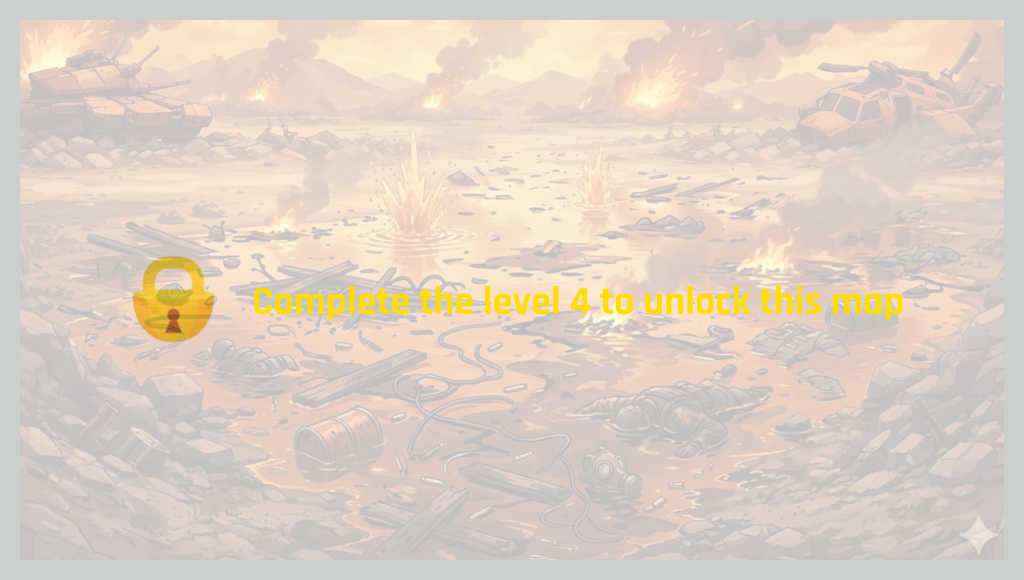
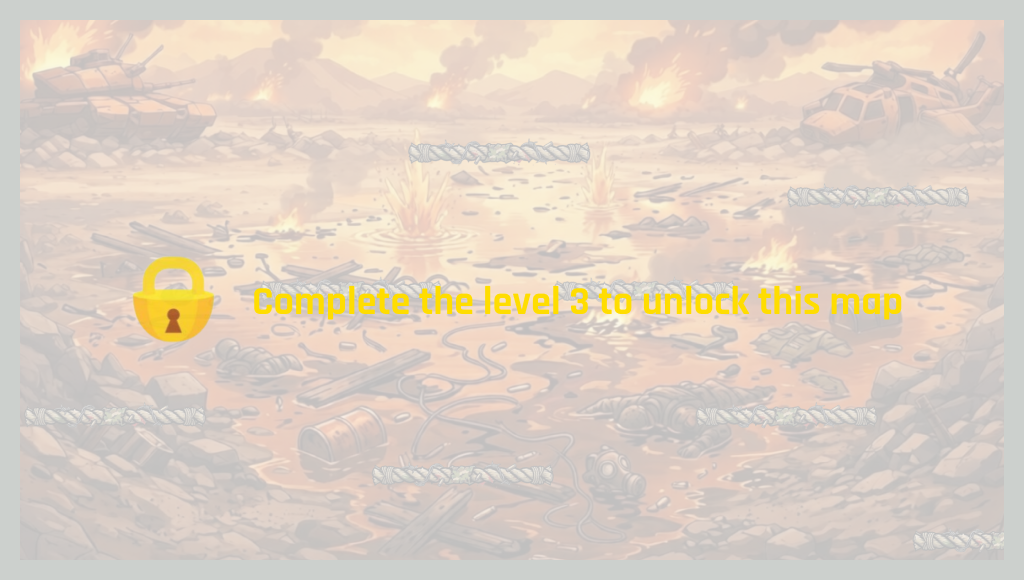
change image and map

diff --git a/js/game.js b/js/game.js
@@ -59,7 +59,7 @@ class Game {
     this.missionTime = 0;
     this.level = 0;
     this.livesAtStartOfLevel = 3; // Default starting lives
-    this.maps = ["space", "jungle", "canyon", "laboratory", "warzone"];
+    this.maps = ["space", "jungle", "canyon", "warzone", "laboratory"];
     this.unlockedMaps = ["space"];
     this.mapIndex = 0;
     this.currentMapId = this.maps[this.mapIndex];
@@ -386,19 +386,32 @@ class Game {
 
     const levelInfoImg = document.getElementById("level-info-img");
     const levelInfoBg = document.getElementById("level-info-bg");
+    const levelInfoOkImg = document.querySelector("#btn-level-info-ok img");
+
     if (levelInfoImg) {
       let infoAsset = `assets/space/gameinfo_space.png`;
       if (this.currentMapId === "jungle") infoAsset = `assets/jungle/gameinfo_jungle.png`;
       if (this.currentMapId === "canyon") infoAsset = `assets/lava/gameinfo_lava.png`;
-      if (this.currentMapId === "laboratory") infoAsset = `assets/laboratory/gameinfo_laboratory.png`;
+      if (this.currentMapId === "warzone") infoAsset = `assets/warzone/gameobjectives.png`;
+      if (this.currentMapId === "laboratory") infoAsset = `assets/laboratory/gameobjectives.png`;
       levelInfoImg.src = infoAsset;
     }
     if (levelInfoBg) {
       let bgAsset = `assets/space/terrainspace.jpg`;
       if (this.currentMapId === "jungle") bgAsset = `assets/jungle/terrainjungle.jpg`;
       if (this.currentMapId === "canyon") bgAsset = `assets/lava/terrainlava.jpg`;
-      if (this.currentMapId === "laboratory") bgAsset = `assets/laboratory/terrainlaboratory.jpg`;
+      if (this.currentMapId === "warzone") bgAsset = `assets/warzone/warzoneterrain.png`;
+      if (this.currentMapId === "laboratory") bgAsset = `assets/laboratory/terrainlaboratory.png`;
       levelInfoBg.src = bgAsset;
+    }
+    if (levelInfoOkImg) {
+        let folder = this.currentMapId;
+        if (folder === "canyon") folder = "lava";
+        if (folder === "laboratory" || folder === "warzone") {
+            levelInfoOkImg.src = `assets/space/ok.png`;
+        } else {
+            levelInfoOkImg.src = `assets/${folder}/ok.png`;
+        }
     }
   }
 
@@ -652,6 +665,8 @@ class Game {
       if (this.currentMapId === "space") bgImg = assets.get("bg-space");
       if (this.currentMapId === "jungle") bgImg = assets.get("bg-jungle");
       if (this.currentMapId === "canyon") bgImg = assets.get("bg-canyon");
+      if (this.currentMapId === "laboratory") bgImg = assets.get("bg-laboratory");
+      if (this.currentMapId === "warzone") bgImg = assets.get("bg-warzone");
     }
 
     if (bgImg) {

diff --git a/js/constants.js b/js/constants.js
@@ -116,19 +116,6 @@ export const GAME_CONST = {
         { x: 1100, y: 150, width: 400, height: 30 }
       ]
     },
-    laboratory: {
-      id: "laboratory",
-      name: "Laboratory",
-      targetKills: 1,
-      description: "Sleek tech facility with hazardous experiments.",
-      theme: { bgTop: "#1a2a2a", bgBottom: "#0a1a1a", platform: "#4aeeb0" },
-      spawn: { x: 640, y: 300 },
-      platforms: [
-        { x: 300, y: 400, width: 680, height: 40 },
-        { x: 100, y: 200, width: 400, height: 40 },
-        { x: 780, y: 200, width: 400, height: 40 }
-      ]
-    },
     warzone: {
       id: "warzone",
       name: "Warzone",
@@ -137,8 +124,29 @@ export const GAME_CONST = {
       theme: { bgTop: "#4a3a2a", bgBottom: "#2a1a0a", platform: "#ccaa88" },
       spawn: { x: 640, y: 300 },
       platforms: [
-        { x: 200, y: 500, width: 880, height: 50 },
-        { x: 400, y: 300, width: 480, height: 50 }
+        { x: 200, y: 500, width: 200, height: 50 },
+        { x: 450, y: 300, width: 200, height: 50 },
+        { x: 700, y: 100, width: 200, height: 50 },
+        { x: 640, y: 600, width: 200, height: 50 },
+        { x: 900, y: 300, width: 200, height: 50 },
+        { x: 1100, y: 550, width: 200, height: 50 },
+        { x: 1250, y: 200, width: 200, height: 50 },
+        { x: 1500, y: 650, width: 200, height: 50 }
+      ]
+    },
+    laboratory: {
+      id: "laboratory",
+      name: "Laboratory",
+      targetKills: 1,
+      description: "Sleek tech facility with hazardous experiments.",
+      theme: { bgTop: "#1a2a2a", bgBottom: "#0a1a1a", platform: "#4aeeb0" },
+      spawn: { x: 640, y: 300 },
+      platforms: [
+        { x: 300, y: 400, width: 680, height: 60 },
+        { x: 1200, y: 500, width: 500, height: 60 },
+        { x: 500, y: 600, width: 340, height: 60 },
+        { x: 100, y: 200, width: 400, height: 60 },
+        { x: 780, y: 200, width: 400, height: 60 }
       ]
     }
   }

diff --git a/js/main.js b/js/main.js
@@ -61,12 +61,18 @@ const assetManifest = [
   { key: "platform-jungle-1", src: "assets/jungle/jungleplatform_1_3.png", type: "image" },
   { key: "platform-jungle-2", src: "assets/jungle/jungleplatform_2.png", type: "image" },
   { key: "platform-canyon", src: "assets/lava/lavaplatform.png", type: "image" },
+  { key: "platform-laboratory", src: "assets/laboratory/laboratoryplatform.png", type: "image" },
+  { key: "platform-warzone", src: "assets/warzone/warzone_platform.png", type: "image" },
   { key: "bg-space", src: "assets/space/terrainspace.jpg", type: "image" },
   { key: "bg-jungle", src: "assets/jungle/terrainjungle.jpg", type: "image" },
   { key: "bg-canyon", src: "assets/lava/terrainlava.jpg", type: "image" },
+  { key: "bg-laboratory", src: "assets/laboratory/terrainlaboratory.png", type: "image" },
+  { key: "bg-warzone", src: "assets/warzone/warzoneterrain.png", type: "image" },
   { key: "info-space", src: "assets/space/gameinfo_space.png", type: "image" },
   { key: "info-jungle", src: "assets/jungle/gameinfo_jungle.png", type: "image" },
   { key: "info-canyon", src: "assets/lava/gameinfo_lava.png", type: "image" },
+  { key: "info-warzone", src: "assets/warzone/gameobjectives.png", type: "image" },
+  { key: "info-laboratory", src: "assets/laboratory/gameobjectives.png", type: "image" },
   { key: "pause-bg-space", src: "assets/space/gamepaused.png", type: "image" },
   { key: "win-bg-space", src: "assets/win1/win1.jpeg", type: "image" },
   { key: "hud-bg-space", src: "assets/space/info.png", type: "image" },

diff --git a/js/platform.js b/js/platform.js
@@ -31,6 +31,10 @@ class PlatformManager {
         img = (i % 2 === 0) ? this.assets.get("platform-jungle-1") : this.assets.get("platform-jungle-2");
       } else if (this.currentMap.id === "canyon") {
         img = this.assets.get("platform-canyon");
+      } else if (this.currentMap.id === "laboratory") {
+        img = this.assets.get("platform-laboratory");
+      } else if (this.currentMap.id === "warzone") {
+        img = this.assets.get("platform-warzone");
       }
       
       if (img) {
